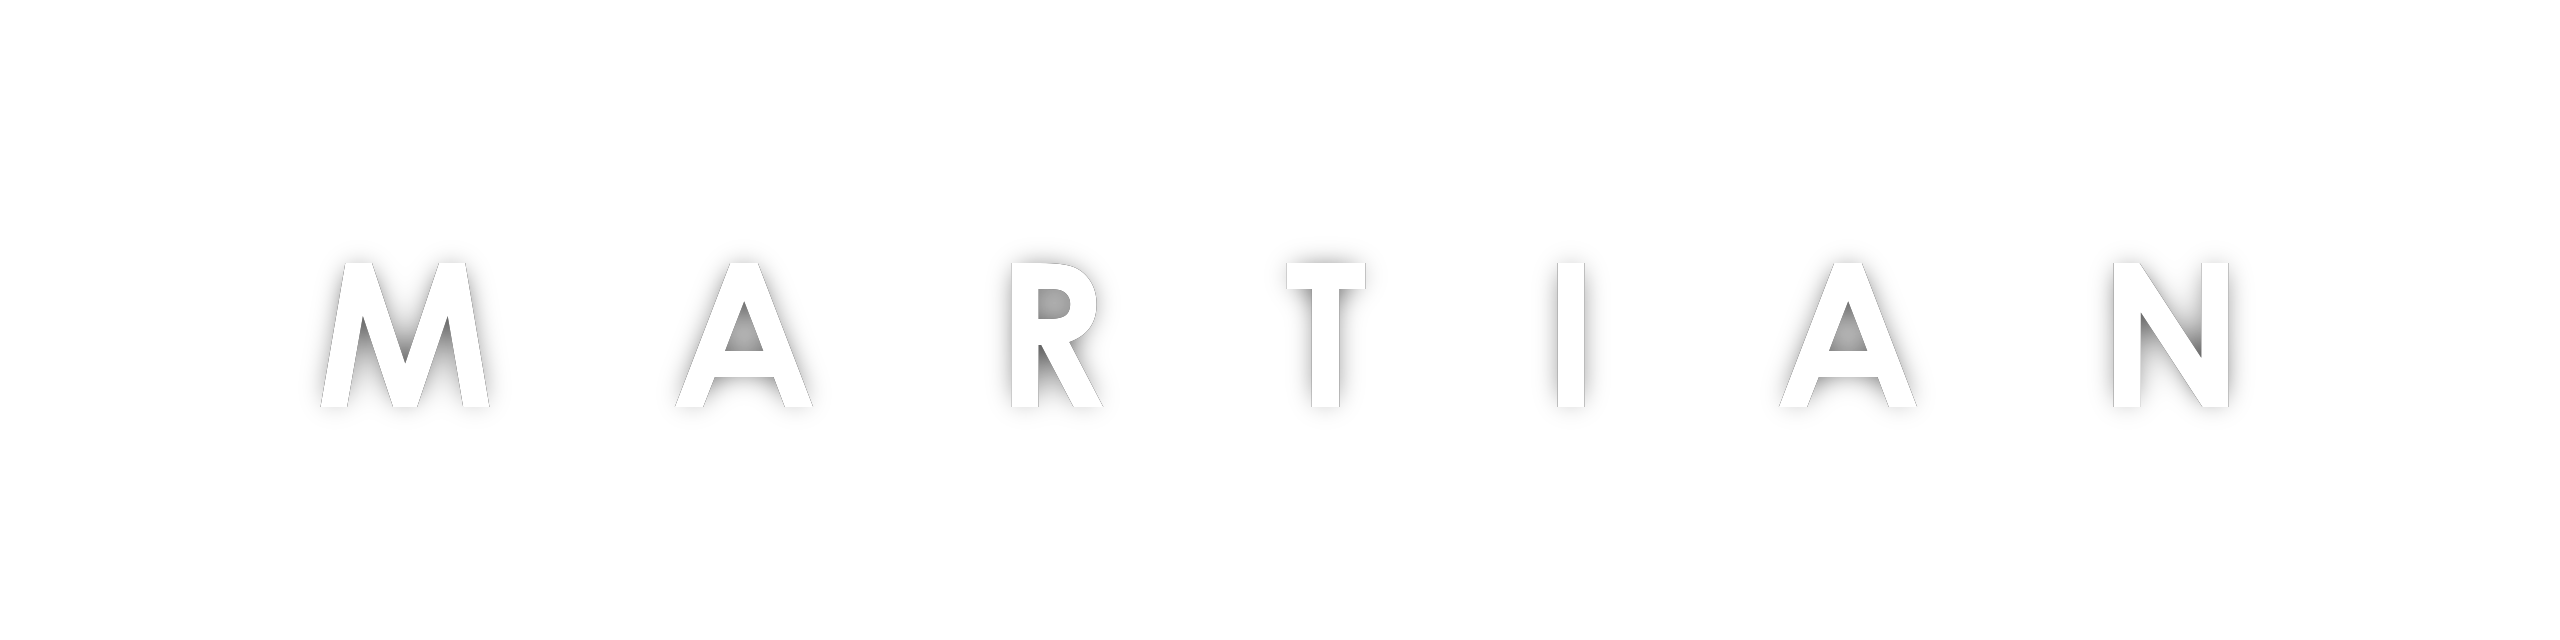
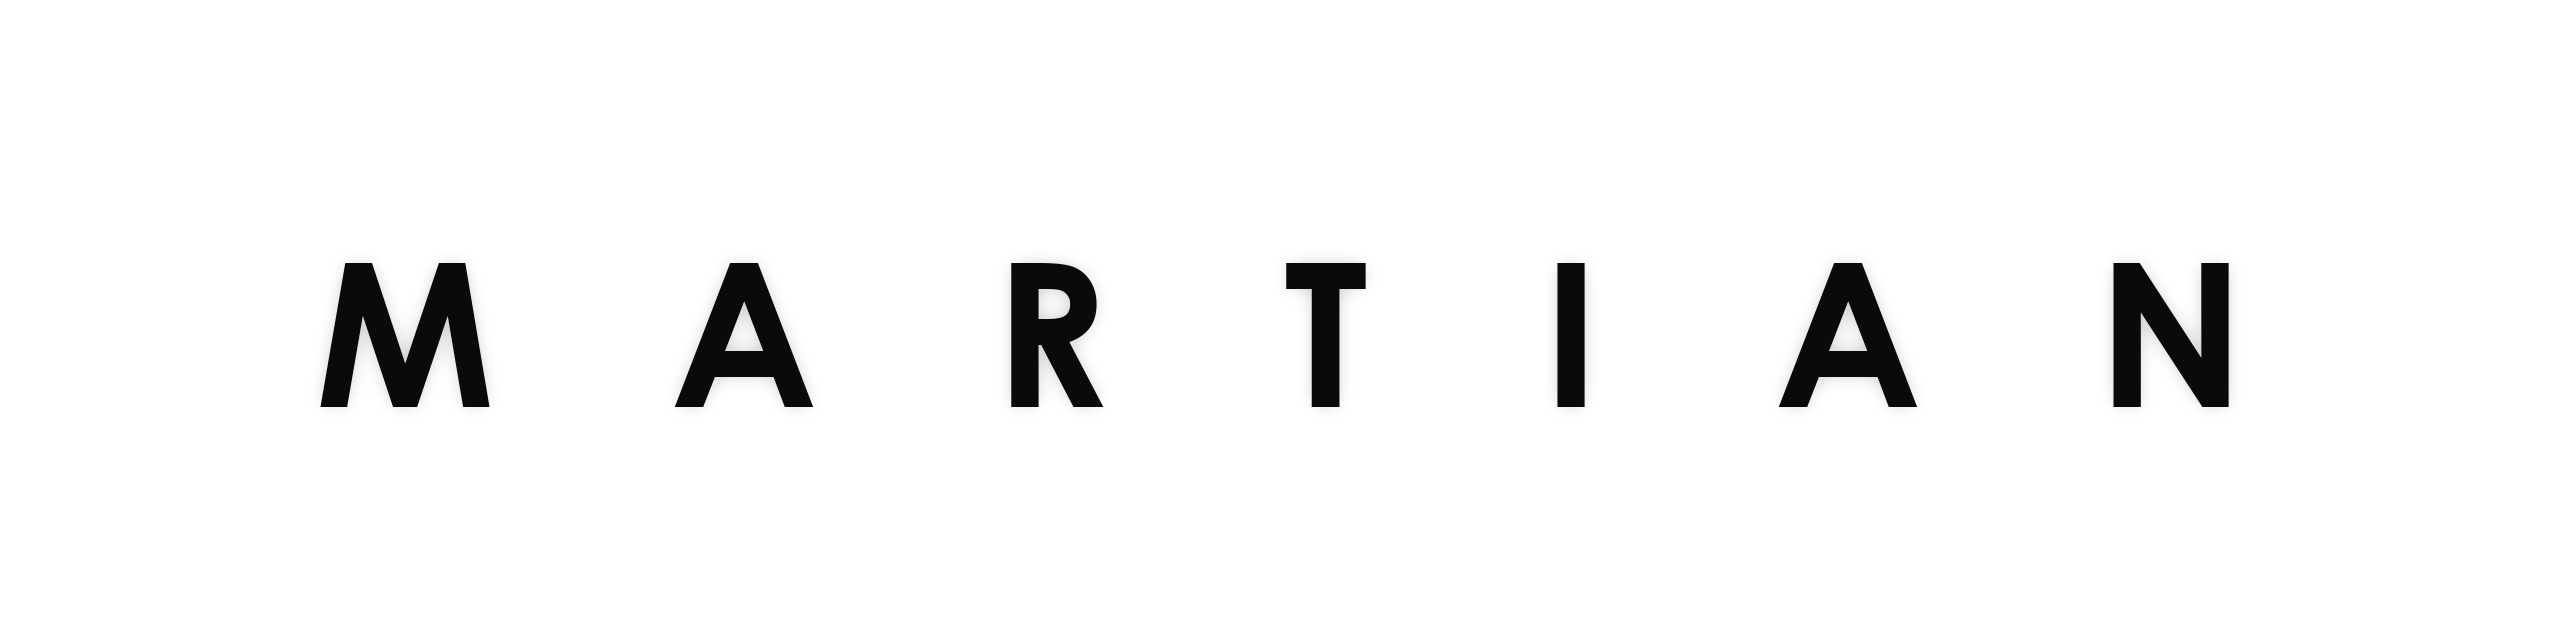
Change MARTIAN title card typography to black with subtle backlight rim

diff --git a/PostProcess.cpp b/PostProcess.cpp
@@ -240,7 +240,7 @@ void renderCinemaPost(float flareX, float flareY, bool flareInFront, float flare
                 glPushMatrix();
                 glTranslatef(startX, startY, 0.0f);
                 glScalef(scale, scale, 1.0f);
-                glColor4f(1.0f, 1.0f, 1.0f, titleAlpha);
+                glColor4f(0.05f, 0.05f, 0.05f, titleAlpha);
                 for (const char* p = title; *p; ++p) {
                     glutStrokeCharacter(GLUT_STROKE_ROMAN, *p);
                 }
